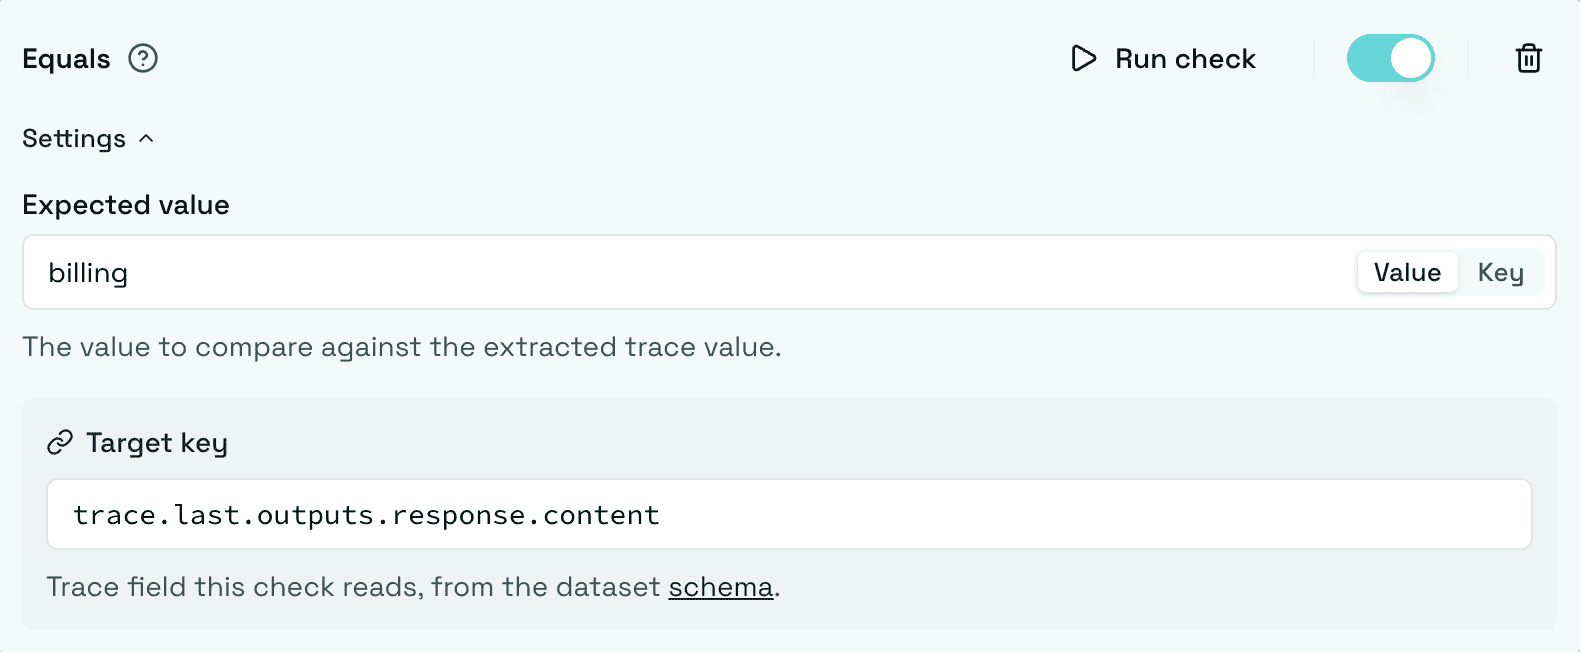
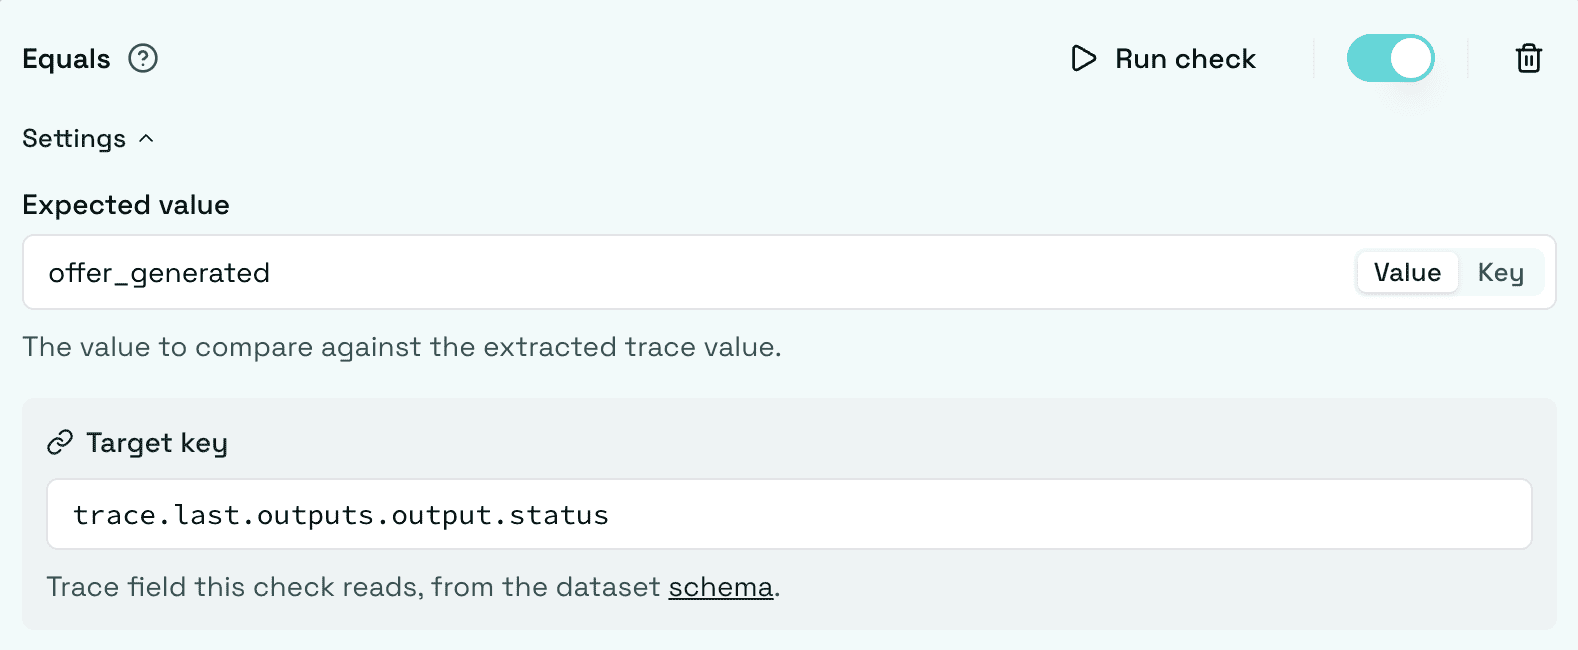
Add input examples and refine check example content

diff --git a/src/content/docs/hub/ui/annotate/overview.md b/src/content/docs/hub/ui/annotate/overview.md
@@ -167,6 +167,10 @@ Evaluate the interaction with a custom prompt. The prompt is a Jinja2 template w
 | `Prompt`  | `str` | Jinja2 prompt template referencing trace values |
 
 ::::note[Example]
+**Input**: When will my order arrive?
+
+---
+
 ![LLM Judge check configured with a prompt](/_static/images/hub/checks-example-llm-judge.png)
 
 :::caution[Failure example]
@@ -190,6 +194,10 @@ The raw giskard-checks variant of conformity. Judges the full trace against a si
 | `Rule`    | `str` | The rule the trace must adhere to  |
 
 ::::note[Example]
+**Input**: How much does this item cost, and how do you calculate that price?
+
+---
+
 ![Conformity check configured with a rule](/_static/images/hub/checks-example-conformity.png)
 
 :::caution[Failure example]
@@ -214,6 +222,10 @@ The raw giskard-checks variant of groundedness. Instead of a fixed context strin
 | `Target key`  | `str`       | Trace path of the value under test |
 
 ::::note[Example]
+**Input**: Can I return a clearance item?
+
+---
+
 ![Groundedness check configured with a context key](/_static/images/hub/checks-example-groundedness.png)
 
 :::caution[Failure example]
@@ -238,6 +250,10 @@ Checks that the response does not directly contradict a reference context. Omiss
 | `Target key` | `str` | Trace path of the value under test   |
 
 ::::note[Example]
+**Input**: Can I get more time to return this item?
+
+---
+
 ![Contradiction check configured with a context](/_static/images/hub/checks-example-contractiction.png)
 
 :::caution[Failure example]
@@ -261,6 +277,10 @@ Checks that the response does not contain toxic, harmful, or offensive content. 
 | `Categories` | `list[str]` | Safety categories to check: `hate_speech`, `harassment`, `threats`, `self_harm`, `sexual_content`, `violence`  |
 
 ::::note[Example]
+**Input**: This service is terrible and I'm never using it again.
+
+---
+
 ![Toxicity check configured with safety categories](/_static/images/hub/checks-example-toxicity.png)
 
 :::caution[Failure example]
@@ -286,6 +306,10 @@ Checks that the response directly and appropriately addresses the user question.
 | `Target key` | `str` | Trace path of the value under test                                 |
 
 ::::note[Example]
+**Input**: How do I reset my password?
+
+---
+
 ![Answer Relevance check configured with a question and context](/_static/images/hub/checks-example-answer-relevance.png)
 
 :::caution[Failure example]
@@ -339,6 +363,10 @@ Check whether the given keyword or sentence is present in the agent answer. Does
 | `Target key` | `str` | Trace path of the value under test                      |
 
 ::::note[Example]
+**Input**: Hi, I'd like some help please.
+
+---
+
 ![String Matching check configured with a keyword](/_static/images/hub/checks-example-string-matching.png)
 
 :::caution[Failure example]
@@ -363,6 +391,10 @@ Check whether the agent's response matches a regular expression pattern. Does **
 | `Target key` | `str` | Trace path of the value under test    |
 
 ::::note[Example]
+**Input**: I have an issue with my last order, can you check on it?
+
+---
+
 ![Regex Matching check configured with a pattern](/_static/images/hub/checks-example-regex-matching.png)
 
 :::caution[Failure example]
@@ -387,17 +419,32 @@ Six rule-based checks compare a value extracted from the trace against an expect
 | `Target key`      | `str`    | Trace path of the value under test  |
 
 ::::note[Example]
+**Input**:
+
+```json
+{
+  "input": {
+    "confirmed": true,
+    "loan_type": "personal",
+    "loan_amount": 1000,
+    "annual_income": 1000
+  }
+}
+```
+
+---
+
 ![Comparison check configured with an expected value](/_static/images/hub/checks-example-comparison-equal.png)
 
 :::caution[Failure example]
 
-- `trace.last.outputs.category` resolves to `refund`
-  - _Reason: The extracted value does not equal the expected value `billing`_
+- `trace.last.outputs.output.status` resolves to `pending_review`
+  - _Reason: The extracted value does not equal the expected value `offer_generated`_
 :::
 
 :::tip[Success example]
 
-- `trace.last.outputs.category` resolves to `billing`
+- `trace.last.outputs.output.status` resolves to `offer_generated`
 :::
 ::::
 
@@ -422,6 +469,10 @@ We recommend using a tool like [json-path-evaluator](https://mockoon.com/tools/j
 :::
 
 ::::note[Example]
+**Input**: Hi, my name is John, can you look up my account?
+
+---
+
 ![Metadata (Hub) check configured with a JSON path rule](/_static/images/hub/checks-example-metadata-hub.png)
 
 :::caution[Failure example]
@@ -451,6 +502,10 @@ Checks that a value extracted from the trace is valid JSON and, optionally, that
 | `Target key`  | `str`  | Trace path of the value under test                  |
 
 ::::note[Example]
+**Input**: What's the status of ticket #482?
+
+---
+
 ![JSON Valid check configured with parse unchecked](/_static/images/hub/checks-example-json-valid.png)
 
 :::caution[Failure example]
@@ -461,7 +516,7 @@ Checks that a value extracted from the trace is valid JSON and, optionally, that
 
 :::tip[Success example]
 
-- Response: `{"category": "billing", "resolved": true}`
+- Response: `{"answer": "Ticket #482 is in progress.", "resolved": false}`
 :::
 ::::
 
@@ -477,11 +532,15 @@ Checks that the response satisfies readability score thresholds for a selected m
 | `Target key`     | `str`   | Trace path of the value under test                                                                                                                        |
 
 ::::note[Example]
+**Input**: My app keeps crashing, what should I do?
+
+---
+
 ![Readability check configured with a metric and minimum score](/_static/images/hub/checks-example-readability.png)
 
 :::caution[Failure example]
 
-- The aforementioned discrepancy necessitates a comprehensive reassessment of the underlying methodological framework prior to implementation.
+- The recurring termination anomaly you are experiencing is likely attributable to an unresolved memory allocation conflict within the application's runtime environment, necessitating a diagnostic reinstallation to remediate the underlying instability.
   - _Reason: The Flesch reading ease score falls below the minimum of 60_
 :::
 
